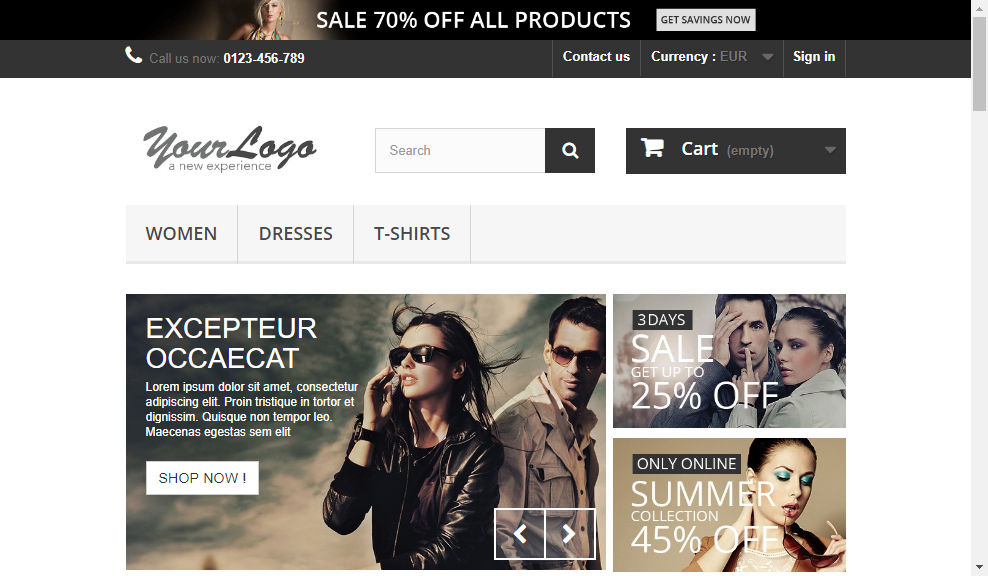
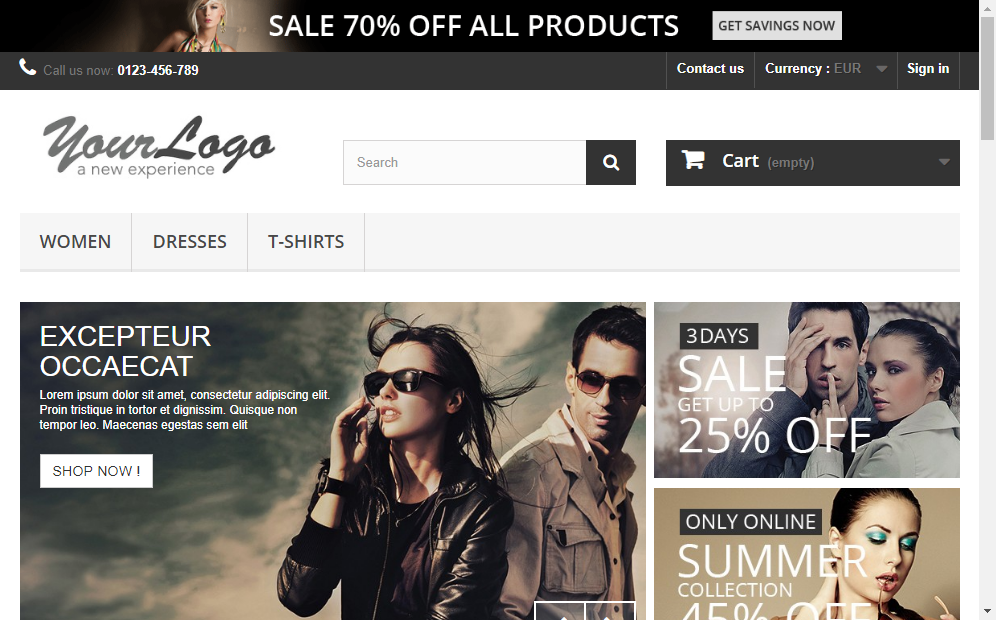
Add failed test screenshots from https://travis-ci.org/wirecard/prestashop-ee/builds/536130901

diff --git a/prestashop-ee-1.6.1.24/API-WDCEE-TEST/2019-05-23/checkCreditCard3DSFunctionalityHappyPath.try.purchaseCheck.ui_test.fail.html b/prestashop-ee-1.6.1.24/API-WDCEE-TEST/2019-05-23/checkCreditCard3DSFunctionalityHappyPath.try.purchaseCheck.ui_test.fail.html
@@ -47,6 +47,8 @@ var ajaxsearch = true;
 var baseDir = 'http://localhost:8080/';
 var baseUri = 'http://localhost:8080/index.php';
 var blocksearch_type = 'top';
+var comparator_max_item = 3;
+var comparedProductsIds = [];
 var contentOnly = false;
 var currency = {"id":1,"name":"Euro","iso_code":"EUR","iso_code_num":"978","sign":"\u20ac","blank":"1","conversion_rate":"1.000000","deleted":"0","format":"2","decimals":"1","active":"1","prefix":"","suffix":" \u20ac","id_shop_list":null,"force_id":false};
 var currencyBlank = 1;
@@ -58,7 +60,7 @@ var delete_txt = 'Delete';
 var displayList = false;
 var freeProductTranslation = 'Free!';
 var freeShippingTranslation = 'Free shipping!';
-var generated_date = 1558593804;
+var generated_date = 1558595561;
 var hasDeliveryAddress = false;
 var highDPI = false;
 var homeslider_loop = 1;
@@ -71,6 +73,8 @@ var instantsearch = false;
 var isGuest = 0;
 var isLogged = 0;
 var isMobile = false;
+var max_item = 'You cannot add more than 3 product(s) to the product comparison';
+var min_item = 'Please select at least one product';
 var page_name = 'index';
 var placeholder_blocknewsletter = 'Enter your e-mail';
 var priceDisplayMethod = 0;
@@ -79,9 +83,9 @@ var quickView = true;
 var removingLinkText = 'remove this product from my cart';
 var roundMode = 2;
 var search_url = 'http://localhost:8080/index.php?controller=search';
-var static_token = '229457ba4c9e91eb2bc1f2cbef98d7ea';
+var static_token = 'e3a7b949ff777eac06736b1b8b2d2053';
 var toBeDetermined = 'To be determined';
-var token = '578b9ab5860a0bda7a3bffd2caf9ea42';
+var token = '631929aee59626f367d9e3e8278d7289';
 var usingSecureMode = false;
 </script>
 
@@ -338,7 +342,7 @@ var usingSecureMode = false;
 										<div id="slider_row" class="row">
 																			<div id="top_column" class="center_column col-xs-12 col-sm-12"><!-- Module HomeSlider -->
     		<div id="homepage-slider" class="col-xs-8">
-						<div class="bx-wrapper" style="max-width: 779px; margin: 0px auto;"><div class="bx-viewport" style="width: 100%; overflow: hidden; position: relative; height: 276px;"><ul id="homeslider" style="max-height: 448px; width: 515%; position: relative; left: -960px;"><li class="homeslider-container bx-clone" style="float: left; list-style: none; position: relative; width: 480px;">
+						<div class="bx-wrapper" style="max-width: 779px; margin: 0px auto;"><div class="bx-viewport" style="width: 100%; overflow: hidden; position: relative; height: 361px;"><ul id="homeslider" style="max-height: 448px; width: 515%; position: relative; left: -1254px;"><li class="homeslider-container bx-clone" style="float: left; list-style: none; position: relative; width: 627px;">
 							<a href="http://www.prestashop.com/?utm_source=back-office&amp;utm_medium=v16_homeslider&amp;utm_campaign=back-office-EN&amp;utm_content=download" title="sample-3">
 								<img src="http://localhost:8080/modules/homeslider/images/sample-3.jpg" width="779" height="448" alt="sample-3">
 							</a>
@@ -346,7 +350,7 @@ var usingSecureMode = false;
 				<p>Lorem ipsum dolor sit amet, consectetur adipiscing elit. Proin tristique in tortor et dignissim. Quisque non tempor leo. Maecenas egestas sem elit</p>
 				<p><button class="btn btn-default" type="button">Shop now !</button></p></div>
 													</li>
-															<li class="homeslider-container" style="float: left; list-style: none; position: relative; width: 480px;">
+															<li class="homeslider-container" style="float: left; list-style: none; position: relative; width: 627px;">
 							<a href="http://www.prestashop.com/?utm_source=back-office&amp;utm_medium=v16_homeslider&amp;utm_campaign=back-office-EN&amp;utm_content=download" title="sample-1">
 								<img src="http://localhost:8080/modules/homeslider/images/sample-1.jpg" width="779" height="448" alt="sample-1">
 							</a>
@@ -354,7 +358,7 @@ var usingSecureMode = false;
 				<p>Lorem ipsum dolor sit amet, consectetur adipiscing elit. Proin tristique in tortor et dignissim. Quisque non tempor leo. Maecenas egestas sem elit</p>
 				<p><button class="btn btn-default" type="button">Shop now !</button></p></div>
 													</li>
-																				<li class="homeslider-container" style="float: left; list-style: none; position: relative; width: 480px;">
+																				<li class="homeslider-container" style="float: left; list-style: none; position: relative; width: 627px;">
 							<a href="http://www.prestashop.com/?utm_source=back-office&amp;utm_medium=v16_homeslider&amp;utm_campaign=back-office-EN&amp;utm_content=download" title="sample-2">
 								<img src="http://localhost:8080/modules/homeslider/images/sample-2.jpg" width="779" height="448" alt="sample-2">
 							</a>
@@ -362,7 +366,7 @@ var usingSecureMode = false;
 				<p>Lorem ipsum dolor sit amet, consectetur adipiscing elit. Proin tristique in tortor et dignissim. Quisque non tempor leo. Maecenas egestas sem elit</p>
 				<p><button class="btn btn-default" type="button">Shop now !</button></p></div>
 													</li>
-																				<li class="homeslider-container" style="float: left; list-style: none; position: relative; width: 480px;">
+																				<li class="homeslider-container" style="float: left; list-style: none; position: relative; width: 627px;">
 							<a href="http://www.prestashop.com/?utm_source=back-office&amp;utm_medium=v16_homeslider&amp;utm_campaign=back-office-EN&amp;utm_content=download" title="sample-3">
 								<img src="http://localhost:8080/modules/homeslider/images/sample-3.jpg" width="779" height="448" alt="sample-3">
 							</a>
@@ -370,7 +374,7 @@ var usingSecureMode = false;
 				<p>Lorem ipsum dolor sit amet, consectetur adipiscing elit. Proin tristique in tortor et dignissim. Quisque non tempor leo. Maecenas egestas sem elit</p>
 				<p><button class="btn btn-default" type="button">Shop now !</button></p></div>
 													</li>
-												<li class="homeslider-container bx-clone" style="float: left; list-style: none; position: relative; width: 480px;">
+												<li class="homeslider-container bx-clone" style="float: left; list-style: none; position: relative; width: 627px;">
 							<a href="http://www.prestashop.com/?utm_source=back-office&amp;utm_medium=v16_homeslider&amp;utm_campaign=back-office-EN&amp;utm_content=download" title="sample-1">
 								<img src="http://localhost:8080/modules/homeslider/images/sample-1.jpg" width="779" height="448" alt="sample-1">
 							</a>
@@ -472,7 +476,7 @@ var usingSecureMode = false;
 							
 											</div>
 										<div class="button-container">
-																													<a class="button ajax_add_to_cart_button btn btn-default" href="http://localhost:8080/index.php?controller=cart&amp;add=1&amp;id_product=7&amp;ipa=34&amp;token=229457ba4c9e91eb2bc1f2cbef98d7ea" rel="nofollow" title="Add to cart" data-id-product-attribute="34" data-id-product="7" data-minimal_quantity="1">
+																													<a class="button ajax_add_to_cart_button btn btn-default" href="http://localhost:8080/index.php?controller=cart&amp;add=1&amp;id_product=7&amp;ipa=34&amp;token=e3a7b949ff777eac06736b1b8b2d2053" rel="nofollow" title="Add to cart" data-id-product-attribute="34" data-id-product="7" data-minimal_quantity="1">
 									<span>Add to cart</span>
 								</a>
 																			<a class="button lnk_view btn btn-default" href="http://localhost:8080/index.php?id_product=7&amp;controller=product" title="View">
@@ -541,7 +545,7 @@ var usingSecureMode = false;
 							
 											</div>
 										<div class="button-container">
-																													<a class="button ajax_add_to_cart_button btn btn-default" href="http://localhost:8080/index.php?controller=cart&amp;add=1&amp;id_product=6&amp;ipa=31&amp;token=229457ba4c9e91eb2bc1f2cbef98d7ea" rel="nofollow" title="Add to cart" data-id-product-attribute="31" data-id-product="6" data-minimal_quantity="1">
+																													<a class="button ajax_add_to_cart_button btn btn-default" href="http://localhost:8080/index.php?controller=cart&amp;add=1&amp;id_product=6&amp;ipa=31&amp;token=e3a7b949ff777eac06736b1b8b2d2053" rel="nofollow" title="Add to cart" data-id-product-attribute="31" data-id-product="6" data-minimal_quantity="1">
 									<span>Add to cart</span>
 								</a>
 																			<a class="button lnk_view btn btn-default" href="http://localhost:8080/index.php?id_product=6&amp;controller=product" title="View">
@@ -620,7 +624,7 @@ var usingSecureMode = false;
 							
 											</div>
 										<div class="button-container">
-																													<a class="button ajax_add_to_cart_button btn btn-default" href="http://localhost:8080/index.php?controller=cart&amp;add=1&amp;id_product=5&amp;ipa=19&amp;token=229457ba4c9e91eb2bc1f2cbef98d7ea" rel="nofollow" title="Add to cart" data-id-product-attribute="19" data-id-product="5" data-minimal_quantity="1">
+																													<a class="button ajax_add_to_cart_button btn btn-default" href="http://localhost:8080/index.php?controller=cart&amp;add=1&amp;id_product=5&amp;ipa=19&amp;token=e3a7b949ff777eac06736b1b8b2d2053" rel="nofollow" title="Add to cart" data-id-product-attribute="19" data-id-product="5" data-minimal_quantity="1">
 									<span>Add to cart</span>
 								</a>
 																			<a class="button lnk_view btn btn-default" href="http://localhost:8080/index.php?id_product=5&amp;controller=product" title="View">
@@ -689,7 +693,7 @@ var usingSecureMode = false;
 							
 											</div>
 										<div class="button-container">
-																													<a class="button ajax_add_to_cart_button btn btn-default" href="http://localhost:8080/index.php?controller=cart&amp;add=1&amp;id_product=4&amp;ipa=16&amp;token=229457ba4c9e91eb2bc1f2cbef98d7ea" rel="nofollow" title="Add to cart" data-id-product-attribute="16" data-id-product="4" data-minimal_quantity="1">
+																													<a class="button ajax_add_to_cart_button btn btn-default" href="http://localhost:8080/index.php?controller=cart&amp;add=1&amp;id_product=4&amp;ipa=16&amp;token=e3a7b949ff777eac06736b1b8b2d2053" rel="nofollow" title="Add to cart" data-id-product-attribute="16" data-id-product="4" data-minimal_quantity="1">
 									<span>Add to cart</span>
 								</a>
 																			<a class="button lnk_view btn btn-default" href="http://localhost:8080/index.php?id_product=4&amp;controller=product" title="View">
@@ -757,7 +761,7 @@ var usingSecureMode = false;
 							
 											</div>
 										<div class="button-container">
-																													<a class="button ajax_add_to_cart_button btn btn-default" href="http://localhost:8080/index.php?controller=cart&amp;add=1&amp;id_product=3&amp;ipa=13&amp;token=229457ba4c9e91eb2bc1f2cbef98d7ea" rel="nofollow" title="Add to cart" data-id-product-attribute="13" data-id-product="3" data-minimal_quantity="1">
+																													<a class="button ajax_add_to_cart_button btn btn-default" href="http://localhost:8080/index.php?controller=cart&amp;add=1&amp;id_product=3&amp;ipa=13&amp;token=e3a7b949ff777eac06736b1b8b2d2053" rel="nofollow" title="Add to cart" data-id-product-attribute="13" data-id-product="3" data-minimal_quantity="1">
 									<span>Add to cart</span>
 								</a>
 																			<a class="button lnk_view btn btn-default" href="http://localhost:8080/index.php?id_product=3&amp;controller=product" title="View">
@@ -825,7 +829,7 @@ var usingSecureMode = false;
 							
 											</div>
 										<div class="button-container">
-																													<a class="button ajax_add_to_cart_button btn btn-default" href="http://localhost:8080/index.php?controller=cart&amp;add=1&amp;id_product=2&amp;ipa=7&amp;token=229457ba4c9e91eb2bc1f2cbef98d7ea" rel="nofollow" title="Add to cart" data-id-product-attribute="7" data-id-product="2" data-minimal_quantity="1">
+																													<a class="button ajax_add_to_cart_button btn btn-default" href="http://localhost:8080/index.php?controller=cart&amp;add=1&amp;id_product=2&amp;ipa=7&amp;token=e3a7b949ff777eac06736b1b8b2d2053" rel="nofollow" title="Add to cart" data-id-product-attribute="7" data-id-product="2" data-minimal_quantity="1">
 									<span>Add to cart</span>
 								</a>
 																			<a class="button lnk_view btn btn-default" href="http://localhost:8080/index.php?id_product=2&amp;controller=product" title="View">
@@ -893,7 +897,7 @@ var usingSecureMode = false;
 							
 											</div>
 										<div class="button-container">
-																													<a class="button ajax_add_to_cart_button btn btn-default" href="http://localhost:8080/index.php?controller=cart&amp;add=1&amp;id_product=1&amp;ipa=1&amp;token=229457ba4c9e91eb2bc1f2cbef98d7ea" rel="nofollow" title="Add to cart" data-id-product-attribute="1" data-id-product="1" data-minimal_quantity="1">
+																													<a class="button ajax_add_to_cart_button btn btn-default" href="http://localhost:8080/index.php?controller=cart&amp;add=1&amp;id_product=1&amp;ipa=1&amp;token=e3a7b949ff777eac06736b1b8b2d2053" rel="nofollow" title="Add to cart" data-id-product-attribute="1" data-id-product="1" data-minimal_quantity="1">
 									<span>Add to cart</span>
 								</a>
 																			<a class="button lnk_view btn btn-default" href="http://localhost:8080/index.php?id_product=1&amp;controller=product" title="View">
@@ -973,7 +977,7 @@ var usingSecureMode = false;
 							
 											</div>
 										<div class="button-container">
-																													<a class="button ajax_add_to_cart_button btn btn-default" href="http://localhost:8080/index.php?controller=cart&amp;add=1&amp;id_product=1&amp;ipa=1&amp;token=229457ba4c9e91eb2bc1f2cbef98d7ea" rel="nofollow" title="Add to cart" data-id-product-attribute="1" data-id-product="1" data-minimal_quantity="1">
+																													<a class="button ajax_add_to_cart_button btn btn-default" href="http://localhost:8080/index.php?controller=cart&amp;add=1&amp;id_product=1&amp;ipa=1&amp;token=e3a7b949ff777eac06736b1b8b2d2053" rel="nofollow" title="Add to cart" data-id-product-attribute="1" data-id-product="1" data-minimal_quantity="1">
 									<span>Add to cart</span>
 								</a>
 																			<a class="button lnk_view btn btn-default" href="http://localhost:8080/index.php?id_product=1&amp;controller=product" title="View">
@@ -1041,7 +1045,7 @@ var usingSecureMode = false;
 							
 											</div>
 										<div class="button-container">
-																													<a class="button ajax_add_to_cart_button btn btn-default" href="http://localhost:8080/index.php?controller=cart&amp;add=1&amp;id_product=2&amp;ipa=7&amp;token=229457ba4c9e91eb2bc1f2cbef98d7ea" rel="nofollow" title="Add to cart" data-id-product-attribute="7" data-id-product="2" data-minimal_quantity="1">
+																													<a class="button ajax_add_to_cart_button btn btn-default" href="http://localhost:8080/index.php?controller=cart&amp;add=1&amp;id_product=2&amp;ipa=7&amp;token=e3a7b949ff777eac06736b1b8b2d2053" rel="nofollow" title="Add to cart" data-id-product-attribute="7" data-id-product="2" data-minimal_quantity="1">
 									<span>Add to cart</span>
 								</a>
 																			<a class="button lnk_view btn btn-default" href="http://localhost:8080/index.php?id_product=2&amp;controller=product" title="View">
@@ -1109,7 +1113,7 @@ var usingSecureMode = false;
 							
 											</div>
 										<div class="button-container">
-																													<a class="button ajax_add_to_cart_button btn btn-default" href="http://localhost:8080/index.php?controller=cart&amp;add=1&amp;id_product=3&amp;ipa=13&amp;token=229457ba4c9e91eb2bc1f2cbef98d7ea" rel="nofollow" title="Add to cart" data-id-product-attribute="13" data-id-product="3" data-minimal_quantity="1">
+																													<a class="button ajax_add_to_cart_button btn btn-default" href="http://localhost:8080/index.php?controller=cart&amp;add=1&amp;id_product=3&amp;ipa=13&amp;token=e3a7b949ff777eac06736b1b8b2d2053" rel="nofollow" title="Add to cart" data-id-product-attribute="13" data-id-product="3" data-minimal_quantity="1">
 									<span>Add to cart</span>
 								</a>
 																			<a class="button lnk_view btn btn-default" href="http://localhost:8080/index.php?id_product=3&amp;controller=product" title="View">
@@ -1177,7 +1181,7 @@ var usingSecureMode = false;
 							
 											</div>
 										<div class="button-container">
-																													<a class="button ajax_add_to_cart_button btn btn-default" href="http://localhost:8080/index.php?controller=cart&amp;add=1&amp;id_product=4&amp;ipa=16&amp;token=229457ba4c9e91eb2bc1f2cbef98d7ea" rel="nofollow" title="Add to cart" data-id-product-attribute="16" data-id-product="4" data-minimal_quantity="1">
+																													<a class="button ajax_add_to_cart_button btn btn-default" href="http://localhost:8080/index.php?controller=cart&amp;add=1&amp;id_product=4&amp;ipa=16&amp;token=e3a7b949ff777eac06736b1b8b2d2053" rel="nofollow" title="Add to cart" data-id-product-attribute="16" data-id-product="4" data-minimal_quantity="1">
 									<span>Add to cart</span>
 								</a>
 																			<a class="button lnk_view btn btn-default" href="http://localhost:8080/index.php?id_product=4&amp;controller=product" title="View">
@@ -1256,7 +1260,7 @@ var usingSecureMode = false;
 							
 											</div>
 										<div class="button-container">
-																													<a class="button ajax_add_to_cart_button btn btn-default" href="http://localhost:8080/index.php?controller=cart&amp;add=1&amp;id_product=5&amp;ipa=19&amp;token=229457ba4c9e91eb2bc1f2cbef98d7ea" rel="nofollow" title="Add to cart" data-id-product-attribute="19" data-id-product="5" data-minimal_quantity="1">
+																													<a class="button ajax_add_to_cart_button btn btn-default" href="http://localhost:8080/index.php?controller=cart&amp;add=1&amp;id_product=5&amp;ipa=19&amp;token=e3a7b949ff777eac06736b1b8b2d2053" rel="nofollow" title="Add to cart" data-id-product-attribute="19" data-id-product="5" data-minimal_quantity="1">
 									<span>Add to cart</span>
 								</a>
 																			<a class="button lnk_view btn btn-default" href="http://localhost:8080/index.php?id_product=5&amp;controller=product" title="View">
@@ -1325,7 +1329,7 @@ var usingSecureMode = false;
 							
 											</div>
 										<div class="button-container">
-																													<a class="button ajax_add_to_cart_button btn btn-default" href="http://localhost:8080/index.php?controller=cart&amp;add=1&amp;id_product=6&amp;ipa=31&amp;token=229457ba4c9e91eb2bc1f2cbef98d7ea" rel="nofollow" title="Add to cart" data-id-product-attribute="31" data-id-product="6" data-minimal_quantity="1">
+																													<a class="button ajax_add_to_cart_button btn btn-default" href="http://localhost:8080/index.php?controller=cart&amp;add=1&amp;id_product=6&amp;ipa=31&amp;token=e3a7b949ff777eac06736b1b8b2d2053" rel="nofollow" title="Add to cart" data-id-product-attribute="31" data-id-product="6" data-minimal_quantity="1">
 									<span>Add to cart</span>
 								</a>
 																			<a class="button lnk_view btn btn-default" href="http://localhost:8080/index.php?id_product=6&amp;controller=product" title="View">
@@ -1404,7 +1408,7 @@ var usingSecureMode = false;
 							
 											</div>
 										<div class="button-container">
-																													<a class="button ajax_add_to_cart_button btn btn-default" href="http://localhost:8080/index.php?controller=cart&amp;add=1&amp;id_product=7&amp;ipa=34&amp;token=229457ba4c9e91eb2bc1f2cbef98d7ea" rel="nofollow" title="Add to cart" data-id-product-attribute="34" data-id-product="7" data-minimal_quantity="1">
+																													<a class="button ajax_add_to_cart_button btn btn-default" href="http://localhost:8080/index.php?controller=cart&amp;add=1&amp;id_product=7&amp;ipa=34&amp;token=e3a7b949ff777eac06736b1b8b2d2053" rel="nofollow" title="Add to cart" data-id-product-attribute="34" data-id-product="7" data-minimal_quantity="1">
 									<span>Add to cart</span>
 								</a>
 																			<a class="button lnk_view btn btn-default" href="http://localhost:8080/index.php?id_product=7&amp;controller=product" title="View">
@@ -1496,7 +1500,7 @@ var usingSecureMode = false;
 							
 											</div>
 										<div class="button-container">
-																													<a class="button ajax_add_to_cart_button btn btn-default" href="http://localhost:8080/index.php?controller=cart&amp;add=1&amp;id_product=5&amp;ipa=19&amp;token=229457ba4c9e91eb2bc1f2cbef98d7ea" rel="nofollow" title="Add to cart" data-id-product-attribute="19" data-id-product="5" data-minimal_quantity="1">
+																													<a class="button ajax_add_to_cart_button btn btn-default" href="http://localhost:8080/index.php?controller=cart&amp;add=1&amp;id_product=5&amp;ipa=19&amp;token=e3a7b949ff777eac06736b1b8b2d2053" rel="nofollow" title="Add to cart" data-id-product-attribute="19" data-id-product="5" data-minimal_quantity="1">
 									<span>Add to cart</span>
 								</a>
 																			<a class="button lnk_view btn btn-default" href="http://localhost:8080/index.php?id_product=5&amp;controller=product" title="View">
@@ -1576,7 +1580,7 @@ var usingSecureMode = false;
 							
 											</div>
 										<div class="button-container">
-																													<a class="button ajax_add_to_cart_button btn btn-default" href="http://localhost:8080/index.php?controller=cart&amp;add=1&amp;id_product=7&amp;ipa=34&amp;token=229457ba4c9e91eb2bc1f2cbef98d7ea" rel="nofollow" title="Add to cart" data-id-product-attribute="34" data-id-product="7" data-minimal_quantity="1">
+																													<a class="button ajax_add_to_cart_button btn btn-default" href="http://localhost:8080/index.php?controller=cart&amp;add=1&amp;id_product=7&amp;ipa=34&amp;token=e3a7b949ff777eac06736b1b8b2d2053" rel="nofollow" title="Add to cart" data-id-product-attribute="34" data-id-product="7" data-minimal_quantity="1">
 									<span>Add to cart</span>
 								</a>
 																			<a class="button lnk_view btn btn-default" href="http://localhost:8080/index.php?id_product=7&amp;controller=product" title="View">
@@ -1657,7 +1661,7 @@ var usingSecureMode = false;
 							
 											</div>
 										<div class="button-container">
-																													<a class="button ajax_add_to_cart_button btn btn-default" href="http://localhost:8080/index.php?controller=cart&amp;add=1&amp;id_product=2&amp;ipa=7&amp;token=229457ba4c9e91eb2bc1f2cbef98d7ea" rel="nofollow" title="Add to cart" data-id-product-attribute="7" data-id-product="2" data-minimal_quantity="1">
+																													<a class="button ajax_add_to_cart_button btn btn-default" href="http://localhost:8080/index.php?controller=cart&amp;add=1&amp;id_product=2&amp;ipa=7&amp;token=e3a7b949ff777eac06736b1b8b2d2053" rel="nofollow" title="Add to cart" data-id-product-attribute="7" data-id-product="2" data-minimal_quantity="1">
 									<span>Add to cart</span>
 								</a>
 																			<a class="button lnk_view btn btn-default" href="http://localhost:8080/index.php?id_product=2&amp;controller=product" title="View">
@@ -1725,7 +1729,7 @@ var usingSecureMode = false;
 							
 											</div>
 										<div class="button-container">
-																													<a class="button ajax_add_to_cart_button btn btn-default" href="http://localhost:8080/index.php?controller=cart&amp;add=1&amp;id_product=1&amp;ipa=1&amp;token=229457ba4c9e91eb2bc1f2cbef98d7ea" rel="nofollow" title="Add to cart" data-id-product-attribute="1" data-id-product="1" data-minimal_quantity="1">
+																													<a class="button ajax_add_to_cart_button btn btn-default" href="http://localhost:8080/index.php?controller=cart&amp;add=1&amp;id_product=1&amp;ipa=1&amp;token=e3a7b949ff777eac06736b1b8b2d2053" rel="nofollow" title="Add to cart" data-id-product-attribute="1" data-id-product="1" data-minimal_quantity="1">
 									<span>Add to cart</span>
 								</a>
 																			<a class="button lnk_view btn btn-default" href="http://localhost:8080/index.php?id_product=1&amp;controller=product" title="View">
@@ -1793,7 +1797,7 @@ var usingSecureMode = false;
 							
 											</div>
 										<div class="button-container">
-																													<a class="button ajax_add_to_cart_button btn btn-default" href="http://localhost:8080/index.php?controller=cart&amp;add=1&amp;id_product=3&amp;ipa=13&amp;token=229457ba4c9e91eb2bc1f2cbef98d7ea" rel="nofollow" title="Add to cart" data-id-product-attribute="13" data-id-product="3" data-minimal_quantity="1">
+																													<a class="button ajax_add_to_cart_button btn btn-default" href="http://localhost:8080/index.php?controller=cart&amp;add=1&amp;id_product=3&amp;ipa=13&amp;token=e3a7b949ff777eac06736b1b8b2d2053" rel="nofollow" title="Add to cart" data-id-product-attribute="13" data-id-product="3" data-minimal_quantity="1">
 									<span>Add to cart</span>
 								</a>
 																			<a class="button lnk_view btn btn-default" href="http://localhost:8080/index.php?id_product=3&amp;controller=product" title="View">
@@ -1861,7 +1865,7 @@ var usingSecureMode = false;
 							
 											</div>
 										<div class="button-container">
-																													<a class="button ajax_add_to_cart_button btn btn-default" href="http://localhost:8080/index.php?controller=cart&amp;add=1&amp;id_product=6&amp;ipa=31&amp;token=229457ba4c9e91eb2bc1f2cbef98d7ea" rel="nofollow" title="Add to cart" data-id-product-attribute="31" data-id-product="6" data-minimal_quantity="1">
+																													<a class="button ajax_add_to_cart_button btn btn-default" href="http://localhost:8080/index.php?controller=cart&amp;add=1&amp;id_product=6&amp;ipa=31&amp;token=e3a7b949ff777eac06736b1b8b2d2053" rel="nofollow" title="Add to cart" data-id-product-attribute="31" data-id-product="6" data-minimal_quantity="1">
 									<span>Add to cart</span>
 								</a>
 																			<a class="button lnk_view btn btn-default" href="http://localhost:8080/index.php?id_product=6&amp;controller=product" title="View">
@@ -1940,7 +1944,7 @@ var usingSecureMode = false;
 							
 											</div>
 										<div class="button-container">
-																													<a class="button ajax_add_to_cart_button btn btn-default" href="http://localhost:8080/index.php?controller=cart&amp;add=1&amp;id_product=7&amp;ipa=34&amp;token=229457ba4c9e91eb2bc1f2cbef98d7ea" rel="nofollow" title="Add to cart" data-id-product-attribute="34" data-id-product="7" data-minimal_quantity="1">
+																													<a class="button ajax_add_to_cart_button btn btn-default" href="http://localhost:8080/index.php?controller=cart&amp;add=1&amp;id_product=7&amp;ipa=34&amp;token=e3a7b949ff777eac06736b1b8b2d2053" rel="nofollow" title="Add to cart" data-id-product-attribute="34" data-id-product="7" data-minimal_quantity="1">
 									<span>Add to cart</span>
 								</a>
 																			<a class="button lnk_view btn btn-default" href="http://localhost:8080/index.php?id_product=7&amp;controller=product" title="View">
@@ -2020,7 +2024,7 @@ var usingSecureMode = false;
 							
 											</div>
 										<div class="button-container">
-																													<a class="button ajax_add_to_cart_button btn btn-default" href="http://localhost:8080/index.php?controller=cart&amp;add=1&amp;id_product=5&amp;ipa=19&amp;token=229457ba4c9e91eb2bc1f2cbef98d7ea" rel="nofollow" title="Add to cart" data-id-product-attribute="19" data-id-product="5" data-minimal_quantity="1">
+																													<a class="button ajax_add_to_cart_button btn btn-default" href="http://localhost:8080/index.php?controller=cart&amp;add=1&amp;id_product=5&amp;ipa=19&amp;token=e3a7b949ff777eac06736b1b8b2d2053" rel="nofollow" title="Add to cart" data-id-product-attribute="19" data-id-product="5" data-minimal_quantity="1">
 									<span>Add to cart</span>
 								</a>
 																			<a class="button lnk_view btn btn-default" href="http://localhost:8080/index.php?id_product=5&amp;controller=product" title="View">
@@ -2073,11 +2077,11 @@ var usingSecureMode = false;
 									</li>
 			</ul>
 </div>
-<div id="fb-root" class=" fb_reset"><div style="position: absolute; top: -10000px; width: 0px; height: 0px;"><div><iframe name="f2015735374ba24" frameborder="0" allowtransparency="true" allowfullscreen="true" scrolling="no" allow="encrypted-media" src="https://www.facebook.com/connect/ping?client_id=334341610034299&amp;domain=localhost&amp;origin=1&amp;redirect_uri=https%3A%2F%2Fstaticxx.facebook.com%2Fconnect%2Fxd_arbiter.php%3Fversion%3D44%23cb%3Df2106c0e1b9644%26domain%3Dlocalhost%26origin%3Dhttp%253A%252F%252Flocalhost%253A8080%252Ff2e4266c9e2d978%26relation%3Dparent&amp;response_type=token%2Csigned_request&amp;sdk=joey" style="display: none;"></iframe></div><div><iframe name="fb_xdm_frame_https" frameborder="0" allowtransparency="true" allowfullscreen="true" scrolling="no" allow="encrypted-media" id="fb_xdm_frame_https" aria-hidden="true" title="Facebook Cross Domain Communication Frame" tabindex="-1" src="https://staticxx.facebook.com/connect/xd_arbiter.php?version=44#channel=f2e4266c9e2d978&amp;origin=http%3A%2F%2Flocalhost%3A8080" style="border: none;"></iframe></div></div></div>
+<div id="fb-root" class=" fb_reset"><div style="position: absolute; top: -10000px; width: 0px; height: 0px;"><div><iframe name="f189fe98539b3f" frameborder="0" allowtransparency="true" allowfullscreen="true" scrolling="no" allow="encrypted-media" src="https://www.facebook.com/connect/ping?client_id=334341610034299&amp;domain=localhost&amp;origin=1&amp;redirect_uri=https%3A%2F%2Fstaticxx.facebook.com%2Fconnect%2Fxd_arbiter.php%3Fversion%3D44%23cb%3Dfe28ecddb2f09%26domain%3Dlocalhost%26origin%3Dhttp%253A%252F%252Flocalhost%253A8080%252Ff313dd53226d8ec%26relation%3Dparent&amp;response_type=token%2Csigned_request&amp;sdk=joey" style="display: none;"></iframe></div><div><iframe name="fb_xdm_frame_https" frameborder="0" allowtransparency="true" allowfullscreen="true" scrolling="no" allow="encrypted-media" id="fb_xdm_frame_https" aria-hidden="true" title="Facebook Cross Domain Communication Frame" tabindex="-1" src="https://staticxx.facebook.com/connect/xd_arbiter.php?version=44#channel=f313dd53226d8ec&amp;origin=http%3A%2F%2Flocalhost%3A8080" style="border: none;"></iframe></div></div></div>
 <div id="facebook_block" class="col-xs-4">
 	<h4>Follow us on Facebook</h4>
 	<div class="facebook-fanbox">
-		<div class="fb-like-box fb_iframe_widget" data-href="https://www.facebook.com/prestashop" data-colorscheme="light" data-show-faces="true" data-header="false" data-stream="false" data-show-border="false" fb-xfbml-state="rendered" fb-iframe-plugin-query="app_id=334341610034299&amp;color_scheme=light&amp;container_width=212&amp;header=false&amp;href=https%3A%2F%2Fwww.facebook.com%2Fprestashop&amp;locale=en_US&amp;sdk=joey&amp;show_border=false&amp;show_faces=true&amp;stream=false"><span style="vertical-align: bottom; width: 0px; height: 0px;"><iframe name="f1036374da1838c" width="1000px" height="1000px" frameborder="0" allowtransparency="true" allowfullscreen="true" scrolling="no" allow="encrypted-media" title="fb:like_box Facebook Social Plugin" src="https://www.facebook.com/plugins/like_box.php?app_id=334341610034299&amp;channel=https%3A%2F%2Fstaticxx.facebook.com%2Fconnect%2Fxd_arbiter.php%3Fversion%3D44%23cb%3Df16f39eafc05b38%26domain%3Dlocalhost%26origin%3Dhttp%253A%252F%252Flocalhost%253A8080%252Ff2e4266c9e2d978%26relation%3Dparent.parent&amp;color_scheme=light&amp;container_width=212&amp;header=false&amp;href=https%3A%2F%2Fwww.facebook.com%2Fprestashop&amp;locale=en_US&amp;sdk=joey&amp;show_border=false&amp;show_faces=true&amp;stream=false" style="border: none; visibility: visible; width: 0px; height: 0px;" class=""></iframe></span></div>
+		<div class="fb-like-box fb_iframe_widget" data-href="https://www.facebook.com/prestashop" data-colorscheme="light" data-show-faces="true" data-header="false" data-stream="false" data-show-border="false" fb-xfbml-state="rendered" fb-iframe-plugin-query="app_id=334341610034299&amp;color_scheme=light&amp;container_width=253&amp;header=false&amp;href=https%3A%2F%2Fwww.facebook.com%2Fprestashop&amp;locale=en_US&amp;sdk=joey&amp;show_border=false&amp;show_faces=true&amp;stream=false"><span style="vertical-align: bottom; width: 0px; height: 0px;"><iframe name="f2826ff83e1e25c" width="1000px" height="1000px" frameborder="0" allowtransparency="true" allowfullscreen="true" scrolling="no" allow="encrypted-media" title="fb:like_box Facebook Social Plugin" src="https://www.facebook.com/plugins/like_box.php?app_id=334341610034299&amp;channel=https%3A%2F%2Fstaticxx.facebook.com%2Fconnect%2Fxd_arbiter.php%3Fversion%3D44%23cb%3Df3149f3cffdfb94%26domain%3Dlocalhost%26origin%3Dhttp%253A%252F%252Flocalhost%253A8080%252Ff313dd53226d8ec%26relation%3Dparent.parent&amp;color_scheme=light&amp;container_width=253&amp;header=false&amp;href=https%3A%2F%2Fwww.facebook.com%2Fprestashop&amp;locale=en_US&amp;sdk=joey&amp;show_border=false&amp;show_faces=true&amp;stream=false" style="border: none; visibility: visible; width: 0px; height: 0px;" class=""></iframe></span></div>
 	</div>
 </div>
 <!-- MODULE Block cmsinfo -->

diff --git a/prestashop-ee-1.6.1.24/API-WDCEE-TEST/2019-05-23/report.html b/prestashop-ee-1.6.1.24/API-WDCEE-TEST/2019-05-23/report.html
@@ -215,7 +215,7 @@
      <li> <a href="#" title="Incomplete" onClick="toggleScenarios('scenarioIncomplete', this.parentElement)"><strong>I</strong> 0</a></li>
    </ul>
  <div class="layout">
- <h1>Codeception Results <small><span style="color: #e74c3c">FAILED</span> (5.1s)</small></h1>
+ <h1>Codeception Results <small><span style="color: #e74c3c">FAILED</span> (5.4s)</small></h1>
 
 
 
@@ -227,7 +227,7 @@
 </tr>   <tr class="scenarioRow scenarioFailed">
     <td>
      <p class="scenarioFailed" onclick="showHide('1', this)"><span class="toggle">+</span>
-          <span class="quiet">CheckCreditCard3DSFunctionalityHappyPath &raquo;</span> try purchaseCheck <span style="color: #34495e; font-size: 70%;">5.06s</span></p>
+          <span class="quiet">CheckCreditCard3DSFunctionalityHappyPath &raquo;</span> try purchaseCheck <span style="color: #34495e; font-size: 70%;">5.36s</span></p>
     </td>
    </tr>
    <tr class="scenarioRow scenarioFailed">
@@ -248,13 +248,13 @@
       </tr>
 
 <tr>
- <td class="stepName failedStep" ><p onclick="showHide('5ce64112eb154', this)"><span class="toggle">+</span> Given i prepare checkout</p>
+ <td class="stepName failedStep" ><p onclick="showHide('5ce647f05d8c5', this)"><span class="toggle">+</span> Given i prepare checkout</p>
 
      </td>
 </tr>
 <tr>
  <td class="nostyle">
-  <table border="0" width="100%" class="substeps scenarioStepsTable" id="stepContainer5ce64112eb154">
+  <table border="0" width="100%" class="substeps scenarioStepsTable" id="stepContainer5ce647f05d8c5">
           <tr>
        <td class="stepName ">&nbsp;&nbsp;&nbsp;&nbsp;<strong></strong></td>
       </tr>
